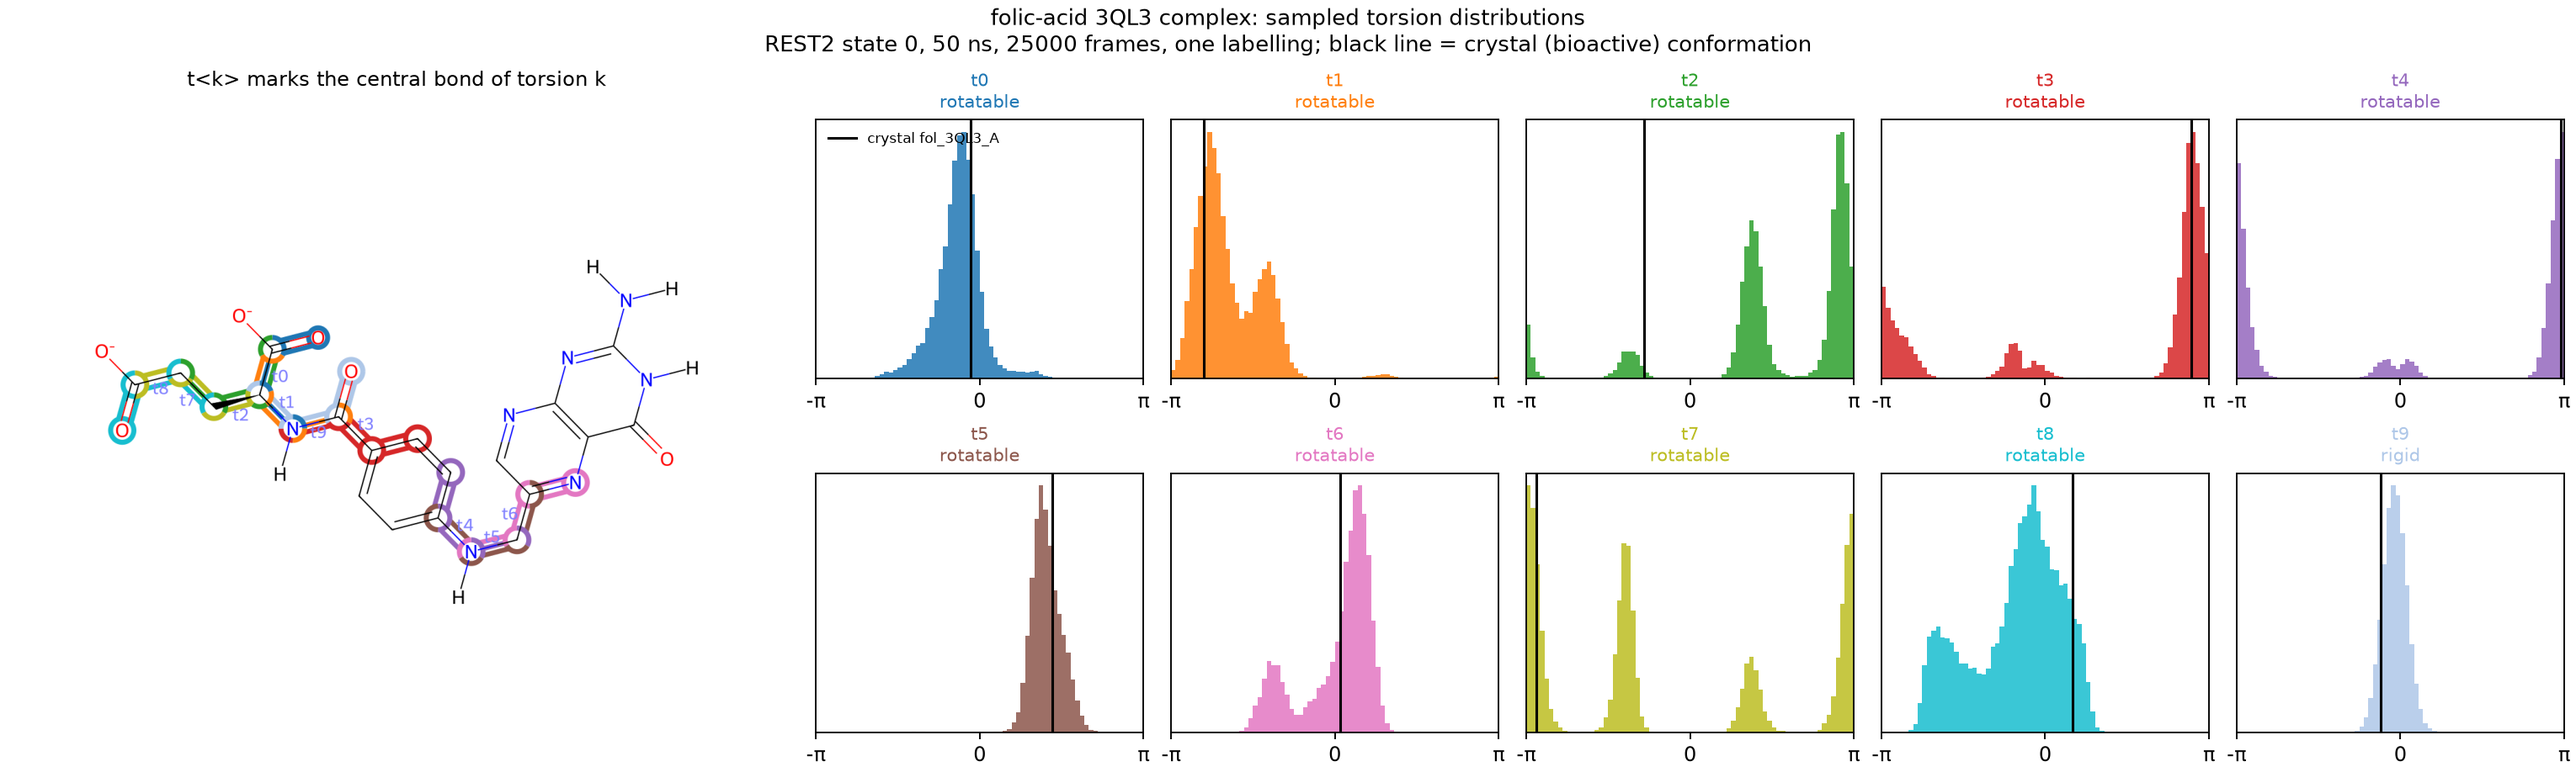
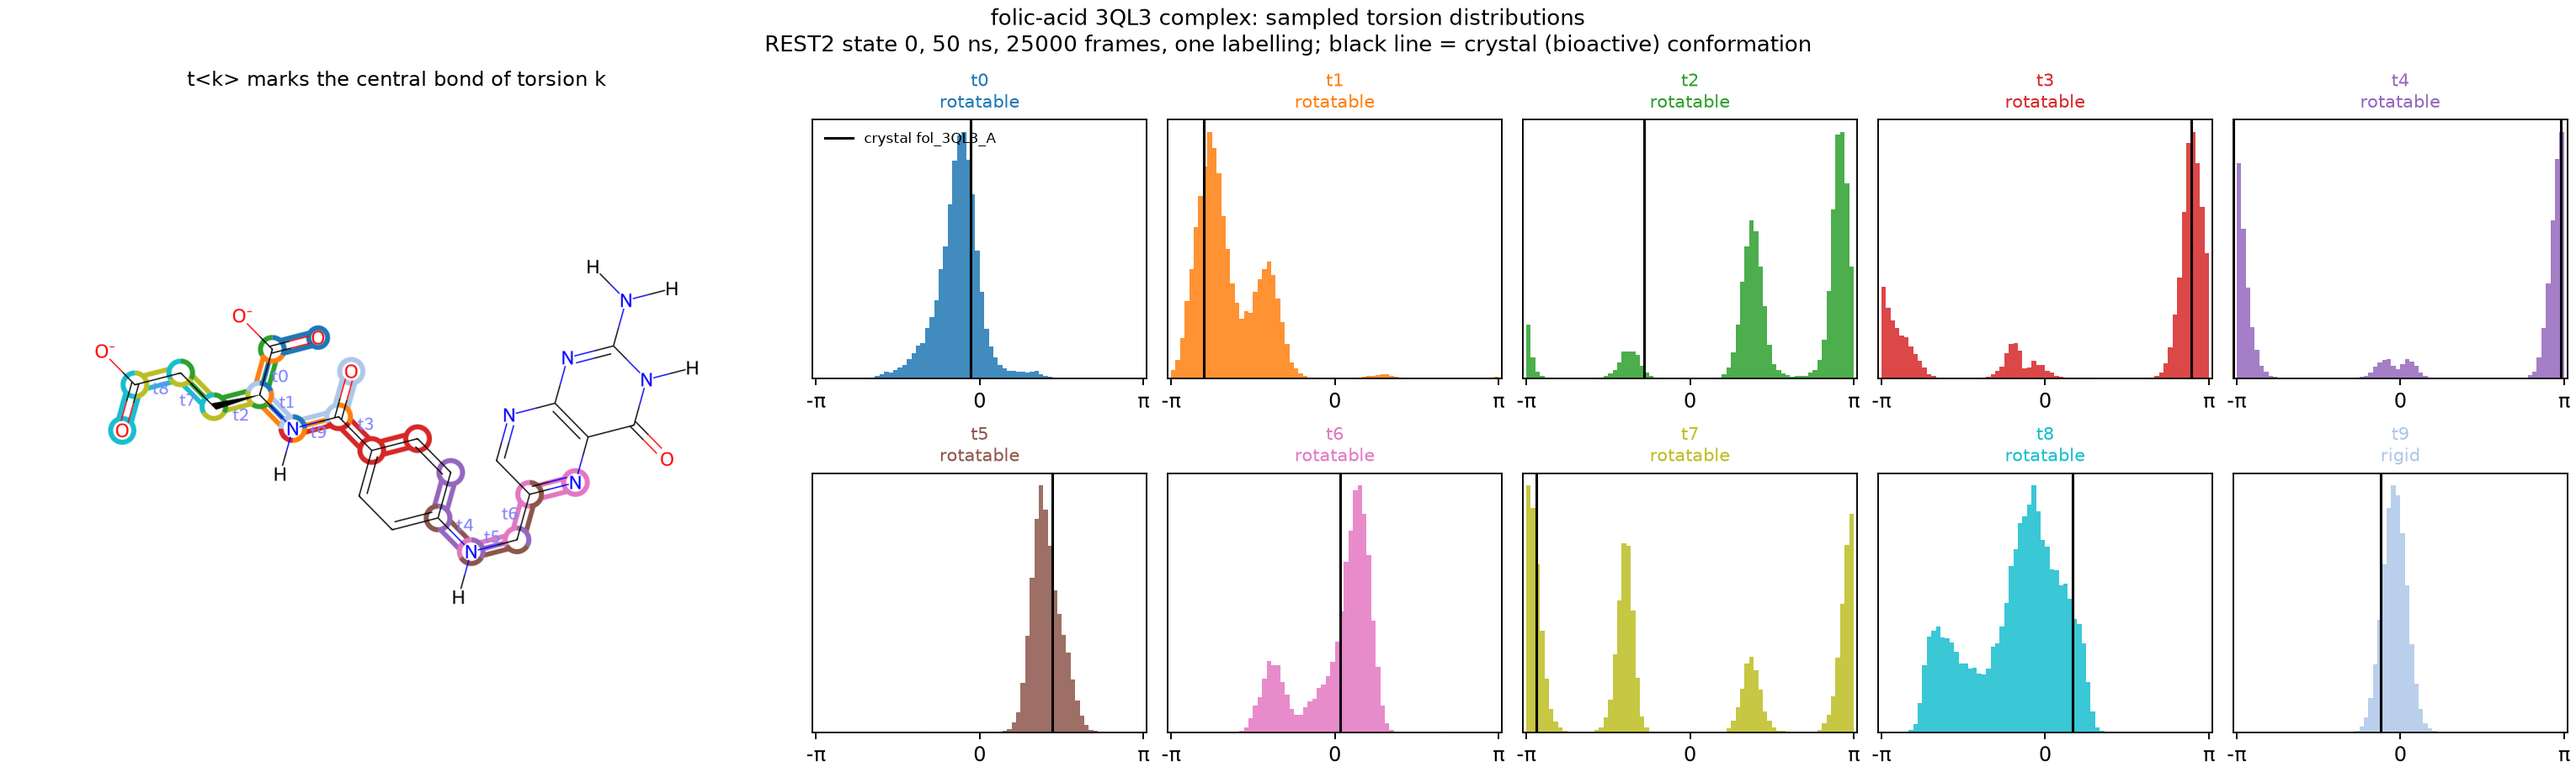
Folic acid in 4LRH: sampled torsion distributions with the crystal values; crystal lines at +-180 deg visible
The x range is widened by 2 % so a crystal value at +-180 deg is not hidden under the panel frame (4LRH t7,
t8; 3QL3 t7); the 3QL3 figure is regenerated with it.

Changed region(s): [[0.9935, 0.61, 1.0, 0.9455], [0.9935, 0.1525, 1.0, 0.488], [0.3415, 0.1525, 0.3725, 0.183]]

diff --git a/analysis/report/sampled_torsions.py b/analysis/report/sampled_torsions.py
@@ -82,7 +82,7 @@ def main():
         ax = fig.add_subplot(grid[divmod(k, ncol)])
         ax.hist(angles[:, k], bins=edges, density=True, color=colours[k], alpha=0.85)
         draw_reference_lines(ax, refs, k, with_label=(k == 0))
-        ax.set_xlim(-np.pi, np.pi)
+        ax.set_xlim(-1.02 * np.pi, 1.02 * np.pi)       # a crystal value at +-180 deg would hide under the frame
         ax.set_xticks([-np.pi, 0, np.pi], ["-π", "0", "π"])
         ax.set_yticks([])
         kind = names[k].rsplit("_", 1)[0].replace("torsions_", "").replace("torsions", "rotatable")
